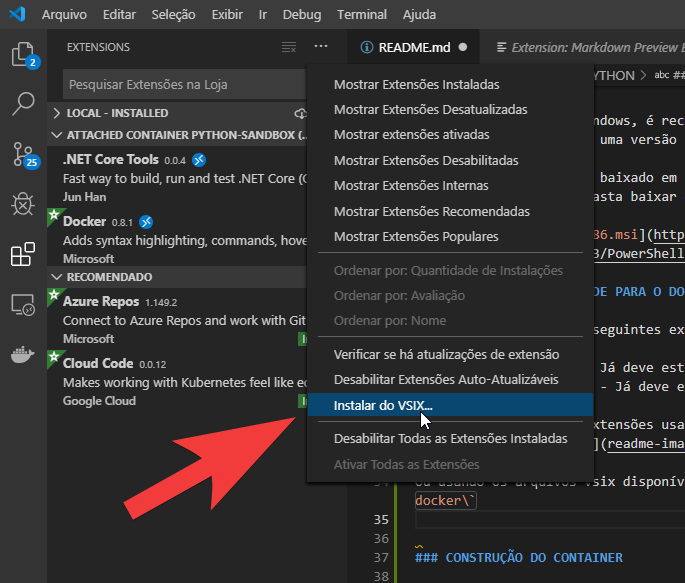
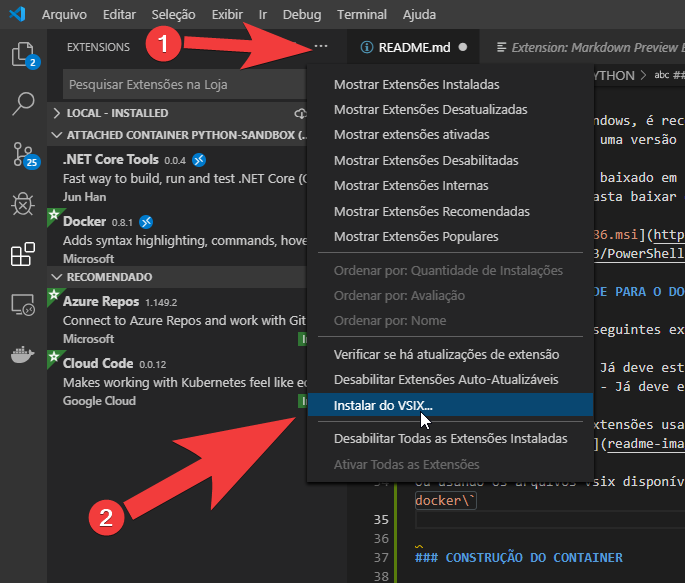
Correções no tutorial

Changed region(s): [[0.2146, 0.0309, 0.4599, 0.1235], [0.1226, 0.8336, 0.1839, 0.9262]]

diff --git a/exercicios/semana2/exercicio02.py b/exercicios/semana2/exercicio02.py
@@ -1,0 +1,8 @@
+nota1 = float(input("Digite a primeira nota: "))
+nota2 = float(input("Digite a segunda nota: "))
+nota3 = float(input("Digite a terceira nota: "))
+nota4 = float(input("Digite a quarta nota: "))
+
+media = (nota1 + nota2 + nota3 + nota4)/4
+
+print(f"A média aritmética é {media}")

diff --git a/exercicios/semana2/exercicio01.py b/exercicios/semana2/exercicio01.py
@@ -4,4 +4,4 @@ lado = int(input("Digite o valor correspondente ao lado de um quadrado: "))
 perimetro = lado * 4
 area = lado * lado
 
-print ("perímetro:", perimetro,"- area:", area)
+print ("perímetro:", perimetro,"- área:", area)

diff --git a/README.md b/README.md
@@ -6,9 +6,26 @@ As únicas ferramentas que ele vai precisar instalar localmente são o VS CODE e
 
 ## INSTALAÇÃO DO AMBIENTE
 
+### Git
+
+[Instale o git no seu sistema.](https://git-scm.com/book/pt-br/v2/Come%C3%A7ando-Instalando-o-Git).
+
+Se estiver no Windows, instale também o [Tortoise Git](https://tortoisegit.org/download/)
+
+Após instalar o git, clone esse repositório.
+
+- [Clonando com o Git](https://rogerdudler.github.io/git-guide/index.pt_BR.html)
+- [Clonando com o Tortoise Git](https://tortoisegit.org/docs/tortoisegit/tgit-dug-clone.html)
+
 ### DOCKER
 
-Baixe e instale o Docker. No windows, ele pode ser baixado em <https://www.docker.com/products/docker-desktop>
+Se você estiver no Windows 10 Home:
+
+- Baixe e instale o Docker Toolbox <https://docs.docker.com/toolbox/toolbox_install_windows/>
+
+Se você estiver no Windows 10 Pro ou Enterprise, Mac ou Linux:
+
+- Baixe e instale o Docker Desktop. No windows, ele pode ser baixado em <https://www.docker.com/products/docker-desktop>
 
 ### VISUAL STUDIO CODE
 
@@ -29,9 +46,18 @@ Instale, no VSCode, as seguintes extensões:
 - Remote - Containers
 - Docker Extension Pack
 
-Você pode instalar as extensões usando o a Loja de extensões (`Ctrl + Shift + X`) ![Loja de extensões](readme-images/extension-store.png)
+Você pode instalar as extensões usando a Loja de extensões (`Ctrl + Shift + X`) ![Loja de extensões](readme-images/extension-store.png)
 
-Ou usando os arquivos vsix disponíveis na pasta `utils/extensions/step1 - docker` ![Instalando do Vsix](readme-images/extension-installing-vsix.png)
+Ou usando os arquivos vsix disponíveis na pasta `utils/extensions/step1 - docker`. Para isso:
+
+- Clique no ícone 3 pontos (passo 1 na imagem abaixo), então escolha a opção "Instalar do VSIX..." 
+- Navegue até a pasta `python-learning/utils/extensions/step1 - docker`
+  - Ex: Você clonou o repositório na pasta `d:\projetos\python-learning`, então o repositório dos arquivos VSIX está na pasta `d:\projetos\python-learning\utils\extensions\step1 - docker`
+- Selecione um dos arquivos
+- Clique em install
+- Repita o processo para o outro arquivo
+
+![Instalando do Vsix](readme-images/extension-installing-vsix.png)
 
 ### CONSTRUÇÃO DO CONTAINER
 
@@ -71,6 +97,12 @@ O comando a ser executado será:
 
 ```bash
 docker run -it -d -v D:\projetos\python-learning:/home/teste --name python-sandbox python-sandbox
+```
+
+Se estiver no Windows 10 home:
+
+```bash
+docker run -it -d -v /python-learning:/home/teste --name python-sandbox python-sandbox
 ```
 
 ### CONECTANDO O VISUAL STUDIO CODE AO CONTAINER
@@ -151,7 +183,7 @@ Ou usando os arquivos vsix disponíveis na pasta `utils/extensions/step3 - markd
 
 Verifique se há atualizações para as extensões instaladas. ![Atualizando extensões](readme-images/extension-update.png)
 
-### RECARREGUE a IDE
+### RECARREGUE A IDE
 
 Se necessário, recarregue o VSCode para concluir a instalação das extensões instaladas. ![Recarregue o VSCode](readme-images/extension-refresh.png)
 
@@ -177,3 +209,23 @@ Ao fim do processo, o VSCode deve estar mostando o arquivo `python-sandbox.json`
     "workspaceFolder": "/home/teste"
 }
 ```
+
+### Problemas com a instalação no Windows 10 Home
+
+- <https://medium.com/@thimblot/using-docker-on-windows-without-hyper-v-troubleshooting-tips-2949587f796a>
+- Se o docker parar, executar no terminal `docker machine restart default`
+
+## PROGRAMANDO EM PYTHON COM O VCSCODE E DOCKER
+
+### ABRINDO A PASTA DO PROJETO
+
+### CRIANDO UM ARQUIVO DE CÓDIGO FONTE
+
+### EXECUTANDO O CÓDIGO FONTE
+
+### USANDO A JANELA INTERATIVA
+
+### CONFIGURANDO ATALHOS DE TECLADO PARA EXECUTAR O PROGRAMA
+
+### DEPURANDO O PROGRAMA
+
